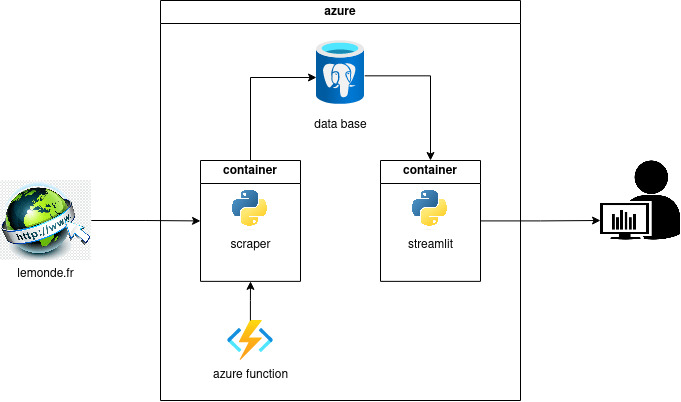
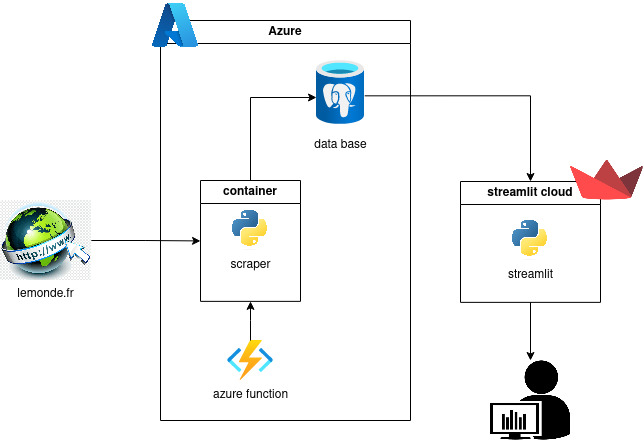
docs: add doc function, update readme

diff --git a/deployment/update-db/src/articles_contents.py b/deployment/update-db/src/articles_contents.py
@@ -44,12 +44,13 @@ def main():
 
 
 def update_database():
+    """scrap new articles and contents from 'le monde' and export it to database"""
     # connection to database
     conn = psycopg2.connect(config.azure_conn_user)
     print("connected")
 
     # cookies
-    accept_cookies("https://www.lemonde.fr")
+    accept_cookies(url="https://www.lemonde.fr", path='//*[@id="js-body"]/div[6]/div/footer/button')
 
     # update database
     if config.article:
@@ -66,6 +67,7 @@ def update_database():
 
 
 def update_articles(conn):
+    """scrap new articles title, date and link from 'le monde' and export it to database"""
     print("start to scrap articles")
     # create df
     df_le_monde = scraping_journal(
@@ -82,7 +84,9 @@ def update_articles(conn):
         df_le_monde = df_le_monde.replace(";", "", regex=True)
         if config.csv:
             # export to csv file
-            databaseInterface.export_to_csv(df=df_le_monde, file_name="articles.csv", if_exists="append")
+            databaseInterface.export_to_csv(
+                df=df_le_monde, file_name="articles.csv", if_exists="append"
+            )
         if config.database:
             # export to postgresql database
             databaseInterface.export_to_database(df=df_le_monde, table="articles")
@@ -91,6 +95,7 @@ def update_articles(conn):
 
 
 def update_contents(conn):
+    """scrap new contents of each new articles from 'le monde' and export it to database"""
     scraping = True
     while scraping:
         # get links of each articles
@@ -121,14 +126,17 @@ def update_contents(conn):
 ######################################################### scraping #########################################################
 
 
-def accept_cookies(url):
+def accept_cookies(url, path: str):
+    """accept cookies by clicking on XPATH button"""
     # open web page
     driver.get(url)
+    # click button
     WebDriverWait(driver, 10).until(
         EC.element_to_be_clickable(
-            (By.XPATH, '//*[@id="js-body"]/div[6]/div/footer/button')
+            (By.XPATH, path)
         )
     ).click()
+    # wait for correct page loading
     time.sleep(6)
 
 
@@ -174,6 +182,7 @@ def scraping_journal(conn, journal_name: str, nb_page: int = 0, url: str = ""):
 
 
 def last_links(conn):
+    """get links of articles already in database for stop the scraping function when one of them reached"""
     query = """
         SELECT link
         FROM articles
@@ -181,13 +190,14 @@ def last_links(conn):
         ;
     """
 
-    stop_link = sql_select(conn, query)
+    stop_link = databaseInterface.sql_select(query)
     stop_link = [x[0] for x in stop_link]
 
     return stop_link
 
 
 def scrap_page(page: int, stop_link, articles, url: str):
+    """append scraped title, content and date to articles list of dict"""
     stop = False
     url = f"{url}&page={page}"
     driver.get(url)
@@ -239,19 +249,6 @@ def scrap_page(page: int, stop_link, articles, url: str):
         return True
 
 
-def sql_select(conn, query):
-    cursor = conn.cursor()
-    cursor.execute(query)
-
-    return cursor.fetchall()
-
-
-def sql_execute(conn, query):
-    cursor = conn.cursor()
-    cursor.execute(query)
-    conn.commit()
-
-
 def get_content_link(conn, batch_size: int):
     query = f"""
         SELECT id, link
@@ -265,7 +262,7 @@ def get_content_link(conn, batch_size: int):
         ;
     """
 
-    links = sql_select(conn, query)
+    links = databaseInterface.sql_select(query)
 
     return links
 
@@ -289,6 +286,7 @@ def get_content(driver, link: str):
 
 
 def scrap_content(links):
+    """scrap new contents of each new articles from 'le monde' and export it to database"""
     # open web page
     driver.get(links[0][1])
     contents = {}

diff --git a/deployment/update-db/src/toolbox.py b/deployment/update-db/src/toolbox.py
@@ -6,33 +6,31 @@ from io import StringIO
 
 
 class DatabaseInterface:
-
     def __init__(self):
-        self.mode = 'azure'
+        """connect to sql database if possible, else load csv to dataframe"""
+        self.mode = "azure"
         try:
             self.conn = psycopg2.connect(config.azure_conn_user)
             self.cursor = self.conn.cursor()
         except:
-            #TODO log to implement
-            self.mode = 'local'
-            print('[FAIL] Database failure, local mode activated.')
-            self.data = {
-                'articles': pd.read_csv('./data-offline/articles.csv')
-                }
+            # TODO log to implement
+            self.mode = "local"
+            print("[FAIL] Database failure, local mode activated.")
+            self.data = {"articles": pd.read_csv("./data-offline/articles.csv")}
 
     def select(self, query: str) -> pd.DataFrame:
-        if self.mode == 'azure':
+        """load data with sql select"""
+        if self.mode == "azure":
             self.cursor.execute(query)
             data = self.cursor.fetchall()
             column_names = [desc[0] for desc in self.cursor.description]
             dataframe = pd.DataFrame(data, columns=column_names)
 
             return dataframe
-        
-        elif self.mode == 'local':
-        
-            return self.data['articles']
-        
+
+        elif self.mode == "local":
+
+            return self.data["articles"]
 
     def export_to_database(self, df: pd.DataFrame, table: str):
         """
@@ -48,13 +46,25 @@ class DatabaseInterface:
         cursor.copy_from(buffer, table, sep=";", columns=cols)
         self.conn.commit()
 
-
-    def export_to_csv(self, df: pd.DataFrame, file_name: str, if_exists: str="replace"):
+    def export_to_csv(
+        self, df: pd.DataFrame, file_name: str, if_exists: str = "replace"
+    ):
         """
         export df to csv
         if_exists : {'replace', 'append'}, default 'replace'
         """
         if if_exists == "replace":
-            df.to_csv(f'{file_name}', index=False)
+            df.to_csv(f"{file_name}", index=False)
         elif if_exists == "append":
-            df.to_csv(f'{file_name}', mode='a', index=False, header=False)
+            df.to_csv(f"{file_name}", mode="a", index=False, header=False)
+
+    def sql_select(self, query):
+        """simple sql select"""
+        self.cursor.execute(query)
+
+        return self.cursor.fetchall()
+
+    def sql_execute(self, query):
+        """execute sql query"""
+        self.cursor.execute(query)
+        self.conn.commit()

diff --git a/deployment/update-db/src/content_cities.py b/deployment/update-db/src/content_cities.py
@@ -1,10 +1,8 @@
-import config
 import ukraine_cities
 from toolbox import DatabaseInterface
 
 import pandas as pd
 
-import psycopg2
 import locationtagger
 import nltk
 
@@ -22,22 +20,19 @@ nltk.download("averaged_perceptron_tagger")
 
 
 def main():
-    conn = psycopg2.connect(config.azure_conn_user)
-
     # get the number of row in content_cities table for process only not exist row
-    count_content_cities = content_cities_count(conn)
+    count_content_cities = content_cities_count()
     # select contents
-    contents = select_contents(conn, count_content_cities)
+    contents = select_contents(count_content_cities)
     # create dataframe "content_id", "city"
     df = extract_cities(contents)
     # export to database
     databaseInterface.export_to_database(df, table="content_cities")
     print("content_cities updated")
 
-    conn.close()
 
-
-def select_contents(conn, count_content_cities: int):
+def select_contents(count_content_cities: int):
+    """select content from database"""
     if count_content_cities > 0:
         query = """
             SELECT id, content
@@ -57,14 +52,13 @@ def select_contents(conn, count_content_cities: int):
             ;
             """
 
-    cursor = conn.cursor()
-    cursor.execute(query)
-    contents = cursor.fetchall()
+    contents = databaseInterface.sql_select(query)
 
     return contents
 
 
 def extract_cities(contents):
+    """return df [[content_id, city]]"""
     df = pd.DataFrame(columns=["content_id", "city"])
 
     for content in contents:
@@ -79,29 +73,28 @@ def extract_cities(contents):
     return df
 
 
-def content_cities_count(conn):
+def content_cities_count():
     """return the number of rows in content_cities table"""
-
     query = """
         select count(*) from content_cities;
     """
-    cursor = conn.cursor()
-    cursor.execute(query)
-    count = cursor.fetchall()
+
+    count = databaseInterface.sql_select(query)
 
     return count[0][0]
 
 
 class Extract:
+    """extract cities or country from text"""
     def __init__(self, content):
         self.place_entity = locationtagger.find_locations(text=content)
 
     def country(self):
-        # getting all countries
+        # get all countries
         return [w for w in self.place_entity.countries]
 
     def cities(self):
-        # getting all cities
+        # get all cities
         return [w for w in self.place_entity.cities]
 
 

diff --git a/deployment/update-db/src/geocity.py b/deployment/update-db/src/geocity.py
@@ -1,14 +1,12 @@
 from toolbox import DatabaseInterface
-import config
 
-import psycopg2
 from geopy.geocoders import Nominatim
 
 databaseInterface = DatabaseInterface()
 
 
 def main():
-    conn = psycopg2.connect(config.azure_conn_user)
+    """update table geo_city [[city, latitude, longitude, count]]"""
 
     query = """
         SELECT article_date, city
@@ -42,22 +40,22 @@ def main():
     databaseInterface.export_to_database(df_geocity, table="geocity")
     print("geocity updated")
 
-    conn.close()
-
 
 def select_cities():
+    """create dataframe [[city]]"""
     query = """
         SELECT city
         FROM geocity
         ;
         """
-    
+
     cities = databaseInterface.select(query)
 
-    return cities['city']
+    return cities["city"]
 
 
 def latitude(city: str):
+    """return city's latitude"""
     # Initialize Nominatim API
     geolocator = Nominatim(user_agent="MyApp")
     location = geolocator.geocode(city)
@@ -69,6 +67,7 @@ def latitude(city: str):
 
 
 def longitude(city: str):
+    """return city's longitude"""
     # Initialize Nominatim API
     geolocator = Nominatim(user_agent="MyApp")
     location = geolocator.geocode(city)
@@ -77,7 +76,6 @@ def longitude(city: str):
         return lon
     except:
         print(city)
-
 
 
 if __name__ == "__main__":

diff --git a/deployment/update-db/src/config.py b/deployment/update-db/src/config.py
@@ -20,7 +20,7 @@ headless = True
 article = True
 content = True
 
-# export
+# export mode
 csv = False
 database = True
 

diff --git a/README.md b/README.md
@@ -1,7 +1,26 @@
 # school-project-01
-School project at Sup De Vinvi Bordeaux
 
-## Azure
+## Architecture
+
+- Scraper container will scrap 'le monde' and provide database host on Azure
+- (dont work yet) The scraper container is trigger every days by azure function
+- Streamlit use database to visualize data
+
 ![alt text](ressource/azure.jpg)
-### update images on azure
-Run the script in azure_script folder from SCHOOL-PROJECT-01 path.
+
+
+## init
+Run init-db.sh for initialize Azure database
+```
+bash script/init-db.sh
+```
+
+## update scraper container on azure
+Run script/azure_update-db.sh for update scraper container on Azure
+```
+bash script/azure_update-db.sh
+```
+
+## visualize
+Click [here](https://tek0ver-school-project-01-deploymentstreamlitstreamlit-1naka4.streamlit.app/?fbclid=IwAR1aP61VhQgQu1M-QXTI4P76xiRbzbfN8jz3OInhtaYcRv-jbrQf6IDf13w)
+to go to streamlit
